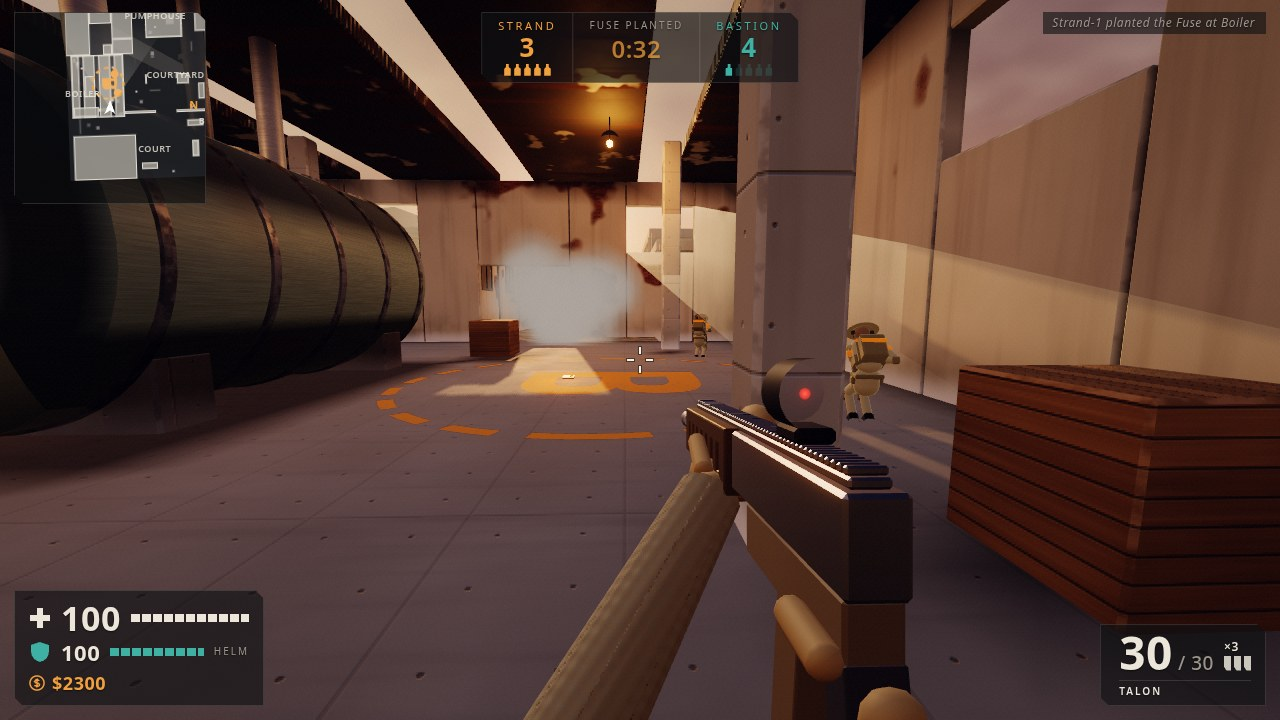
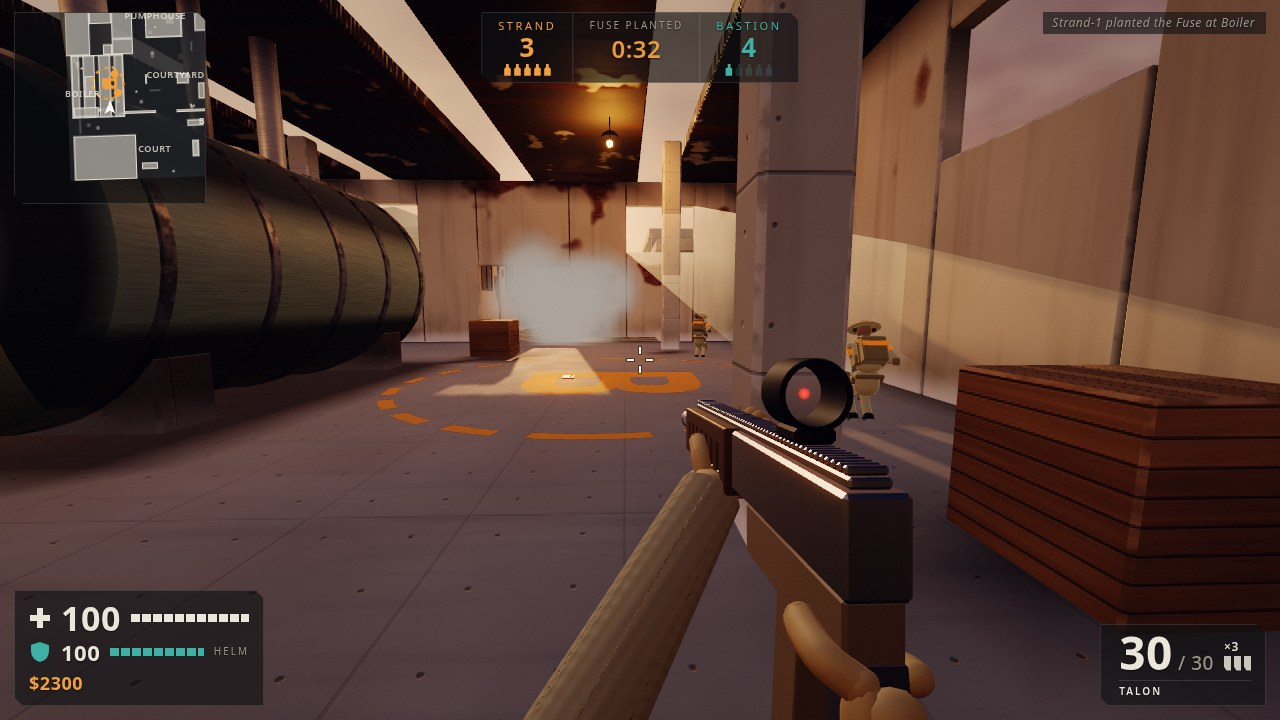
M7: hands to scale: each finger one 17 mm tube with round ends, 16 mm apart so they touch, own length per finger, index on the trigger, thumb with a palm pad; scope: crisp edge and duplex reticle in the scoped view, recessed coated glass in the Longbow scope, dot-sight housing with real walls (no mo

diff --git a/game/js/art/viewmodel.js b/game/js/art/viewmodel.js
@@ -9,40 +9,45 @@ import { TEAM_LOOK, WEAPONS } from '../config.js';
 const HOLD = { pistol: [.075, -.105, -.43], rifle: [.11, -.128, -.37] }, ADS = [0, -.074, -.22];
 export const GLOVE = lin(0xa48a62);
 const toAds = (hip, k, a) => hip[k] + (ADS[k] - hip[k]) * a;
-const _m = new Matrix4(), _n = new Matrix4(), _q = new Quaternion(), _s = new Vector3(), P = (x, y, z) => new Vector3(x, y, z);
+const _m = new Matrix4(), _q = new Quaternion(), _v = new Vector3(), _s = new Vector3(), _x = new Vector3(1, 0, 0), P = (x, y, z) => new Vector3(x, y, z);
 const seg = (B, a, b, r, col) => B.add(new CapsuleGeometry(r, a.distanceTo(b), 3, 10), along(a, b), 1, col);
+const pad = (B, x, y, z, sx, sy, sz, rx, col) => B.add(new SphereGeometry(1, 14, 10), _m.compose(_v.set(x, y, z), _q.setFromAxisAngle(_x, rx), _s.set(sx, sy, sz)), 1, col);
 const se = (d, a, b, p) => { const c = Math.cos(d / 57.3), s = Math.sin(d / 57.3); return [a * Math.sign(c) * Math.abs(c) ** p, b * Math.sign(s) * Math.abs(s) ** p]; };
 const at = (L, y) => L[0] + (L[2] - L[0]) * (y - L[1]) / (L[3] - L[1]);
-// The four fingers as one block: a flattened tube h tall round a grip section (superellipse a, b, power p) from d0° to d1°,
-// with rounded ends; m places it, local y along the grip.
-function fingers(B, a, b, p, d0, d1, h, m, col) {
-	const pts = Array.from({ length: 9 }, (_, k) => { const [x, z] = se(d0 + (d1 - d0) * k / 8, a + .005, b + .005, p); return new Vector3(x, 0, z); });
-	m.scale(_s.set(1, h / .034, 1)); // the inner half of the 17 mm tube sits inside the grip
-	B.add(new TubeGeometry(new CatmullRomCurve3(pts), 24, .017, 12), m, 1, col);
-	for (const q of [pts[0], pts[8]]) B.add(new SphereGeometry(.017, 12, 8), _n.makeTranslation(q).premultiply(m), 1, col);
+// Finger or thumb: a tube through pts with a round tip. Fingers are 17 mm thick and 16 mm apart, so they touch.
+const R_F = .0085, GAP = .016;
+function finger(B, pts, col, r = R_F) {
+	B.add(new TubeGeometry(new CatmullRomCurve3(pts), 16, r, 8), _m.identity(), 1, col);
+	for (const q of [pts[0], pts.at(-1)]) B.add(new SphereGeometry(r, 10, 8), _m.makeTranslation(q), 1, col);
 }
+// Six points from d0° to d1° on a superellipse section (a, b, p), placed by pt(u, v, j).
+const arc = (d0, d1, a, b, p, pt) => Array.from({ length: 6 }, (_, j) => pt(...se(d0 + (d1 - d0) * j / 5, a, b, p), j));
 
-// Hands from the weapon's grip data: right palm behind the grip, fingers round its front below the guard, thumb along the
-// frame; left hand round the handguard or over the right fingers on a pistol. Returns builders and wrist points.
+// Hands from the weapon's grip data: right palm and three fingers round the grip, index on the trigger, thumb along the
+// frame; left hand round the handguard or over the right hand. Each finger ends at its own angle, for its own length.
 export function buildHands(w, glove) {
 	const R = new Bld(), L = new Bld(), G = w.grip, zf = (y) => at(G.f, y), zb = (y) => at(G.b, y), zc = (y) => (zf(y) + zb(y)) / 2;
-	const hw = G.hw, ym = G.fy - .02, y0 = G.fy + .006, h = .074, dz = (zb(ym) - zf(ym)) / 2, xT = -G.side - .011, yT = G.top + .01;
-	const rake = -Math.atan2(zc(y0 - .1) - zc(y0), .1), grip = () => _m.makeRotationX(rake).setPosition(0, y0 - h / 2, zc(y0 - h / 2));
+	const hw = G.hw, ym = G.fy - .022, [ty, tz] = G.trig, xT = -G.side - R_F, yT = G.top + .009, rake = -Math.atan2(zb(G.top - .1) - zb(G.top), .1);
+	const wrap = (y, out, d0, d1) => arc(d0, d1, hw + out, (zb(y) - zf(y)) / 2 + out, .6, (x, z, j) => P(x, y - j * .0015, zc(y) + z));
 	seg(R, P(.002, G.top - .012, zb(G.top - .012) + .012), P(.003, G.fy - .05, zb(G.fy - .05) + .012), .016, glove);
-	fingers(R, hw, dz, .6, 42, -168, h, grip(), glove);
-	seg(R, P(xT + .002, yT, zb(G.top) - .002), P(xT + .001, yT + .003, zf(G.top) - .03), .0095, glove);
+	pad(R, hw * .6, ym, zb(ym) - .002, .016, .04, .022, rake, glove);
+	pad(R, -hw * .5, G.top - .016, zb(G.top - .016) + .004, .011, .024, .016, rake, glove);
+	for (let k = 0; k < 3; k++) finger(R, wrap(G.fy - k * GAP, R_F * .85, 35, [-172, -165, -142][k]), glove);
+	finger(R, [P(hw + R_F * .8, ty + .004, zb(G.top) - .008), P(hw + R_F * .8, ty + .001, tz + .024), P(hw * .5 + .004, ty - .003, tz + .008), P(.004, ty - .007, tz - .004)], glove);
+	finger(R, [P(-hw * .6, G.top + .001, zb(G.top) + .006), P(xT + .002, yT, zb(G.top) - .004), P(xT, yT + .002, zf(G.top) - .006), P(xT + .002, yT + .002, zf(G.top) - .025)], glove, .0092);
 	const rw = [hw * .4, ym - .01, zb(ym) + .036];
 	seg(R, P(.004, ym, zb(ym) + .014), P(...rw), .021, glove);
 	let lw;
 	if (w.left) {
 		const z = w.left[2], [cy, rx, ry, p] = w.hg, [px, py] = se(-135, rx + .013, ry + .013, p);
-		seg(L, P(px, cy + py, z + .042), P(px + .006, cy + py, z - .03), .017, glove);
-		fingers(L, rx, ry, p, -150, 45, h, _m.makeRotationX(-Math.PI / 2).setPosition(0, cy, z), glove);
-		seg(L, P(-rx - .012, cy - ry * .45, z + .045), P(-rx - .008, cy + ry * .12, z - .036), .0095, glove);
-		lw = [-rx - .008, cy - ry - .004, z + .062]; seg(L, P(px, cy + py, z + .04), P(...lw), .021, glove);
+		pad(L, px, cy + py, z + .006, .02, .016, .04, 0, glove);
+		for (let k = 0; k < 4; k++) finger(L, arc(-150, [52, 58, 48, 30][k], rx + R_F * .85, ry + R_F * .85, p, (x, y, j) => P(x, cy + y, z - .028 + k * GAP + j * .001)), glove);
+		finger(L, [P(px, cy + py + .004, z + .03), P(-rx - .01, cy - ry * .3, z + .012), P(-rx - .009, cy, z - .01), P(-rx - .008, cy + ry * .15, z - .03)], glove, .0092);
+		lw = [-rx - .008, cy - ry - .004, z + .062]; seg(L, P(px, cy + py, z + .03), P(...lw), .021, glove);
 	} else {
-		fingers(L, hw + .02, dz + .02, .6, 165, 284, h, grip(), glove);
-		seg(L, P(-hw - .02, G.top - .02, zb(G.top) + .004), P(xT - .002, G.top - .018, zf(G.top) - .028), .0095, glove);
+		pad(L, -hw - .022, ym, zc(ym) + .006, .011, .034, .026, rake, glove);
+		for (let k = 0; k < 4; k++) finger(L, wrap(G.fy + .006 - k * GAP, R_F * 2.7, 165, [282, 286, 280, 268][k]), glove);
+		finger(L, [P(-hw - .02, G.top - .024, zb(G.top) + .004), P(xT - .006, G.top - .02, zc(G.top)), P(xT - .004, G.top - .02, zf(G.top) - .008), P(xT - .002, G.top - .02, zf(G.top) - .026)], glove, .0092);
 		lw = [-hw - .024, G.fy - .05, zb(G.fy - .05) + .02]; seg(L, P(-hw - .02, ym - .02, zc(ym) + .01), P(...lw), .02, glove);
 	}
 	return { R, L, rw, lw };

diff --git a/game/js/art/weapons-art.js b/game/js/art/weapons-art.js
@@ -25,7 +25,7 @@ const slots = (u0, u1, v0, v1, n) => Array.from({ length: n }, (_, k) => { const
 
 function optic(B, kind, z, y) {
 	if (kind === 'scope') {
-		lat(B, FIN.P, 0, y + .045, z + .14, [0,0,.022,0,.022,.06,.015,.09,.015,.2,.02,.24,.02,.3,.018,.31,0,.31], 1,24);
+		lat(B, FIN.P, 0, y + .045, z + .14, [0,.008,.016,.008,.016,0,.022,0,.022,.06,.015,.09,.015,.2,.02,.24,.02,.3,.018,.31,.015,.31,.015,.302,0,.302], 1,32);
 		for (const zz of [z + .07, z - .08]) box(B, FIN.K, -.012, y, zz, .012, y + .03, zz - .02,1);
 		lat(B, FIN.K, .024, y + .045, z - .01, [0,0,.009,0,.009,.02,0,.02], 1,12);
 		return y + .045;
@@ -37,13 +37,13 @@ function optic(B, kind, z, y) {
 		return y + .033;
 	}
 	box(B, FIN.K, -.013, y, z, .013, y + .01, z - .05,1);
-	lat(B, FIN.K, 0, y + .03, z, [.023,0,.023,.05,.02,.052], 1,20);
+	lat(B, FIN.K, 0, y + .03, z, [.019,0,.023,0,.023,.05,.021,.053,.019,.053,.019,0], 1,28);
 	return y + .03;
 }
 
-// Hand placement: grip front/back edges [z, y, z, y], grip and frame half widths, web and first-finger heights.
-const PGRIP = { f: [-.016,-.03,-.005,-.12], b: [.012,-.01,.03,-.115], hw: .017, side: .014, top: -.014, fy: -.052 };
-const LGRIP = { f: [.008,-.03,.024,-.124], b: [.035,-.02,.058,-.118], hw: .016, side: .0155, top: -.026, fy: -.062 };
+// Hand placement: grip front/back edges [z, y, z, y], grip and frame half widths, web and first-finger heights, trigger [y, z].
+const PGRIP = { f: [-.016,-.03,-.005,-.12], b: [.012,-.01,.03,-.115], hw: .017, side: .014, top: -.014, fy: -.052, trig: [-.027,-.033] };
+const LGRIP = { f: [.008,-.03,.024,-.124], b: [.035,-.02,.058,-.118], hw: .016, side: .0155, top: -.026, fy: -.062, trig: [-.032,-.017] };
 function pistol(o) {
 	const B = new Bld(), K = new Bld(), A = new Bld(), L = o.len;
 	box(B, o.frame, -.014,-.012,.035,.014,.012, -L + .02,1);
@@ -73,7 +73,6 @@ function longGun(o) {
 	rail(B, .064, zf + .02, -h1 + .01);
 	rail(B, .064, z0 - .01, zf + .02);
 	lat(B, FIN.M, 0, by, bz + .01, [o.bore, 0, o.bore, o.barrel, 0, o.barrel], 2,16);
-	if (o.flute) for (let k = 0; k < 6; k++) box(B, FIN.R, -o.bore - .0005, by - .0015, bz - .04 - k * .04, o.bore + .0005, by + .0015, bz - .065 - k * .04);
 	lat(B, FIN.M, 0, by, bz - o.barrel + .01, [.013,0,.013,.012,.011,.014,.011,.02,.013,.022,.013,.05,.009,.055,0,.055], 2,16);
 	box(B, FIN.M, -.012, by - .014, bz, .012, by + .016, bz - .025);
 	const S = (pts, f = FIN.P, holes = []) => ext(B, f, .034, pts.map((v, i) => (i % 2 ? v : -s0 - v)), holes.map((h) => h.map((v, i) => (i % 2 ? v : -s0 - v))));
@@ -95,14 +94,16 @@ const SPECS = {
 	breaker: (fp) => longGun({ fp, recv: .2, hg: .36, barrel: .12, bore: .014, stock: 'tube', accent: 0x333538, hgColor: 0x5a3c26 }),
 	talon: (fp) => longGun({ fp, recv: .26, hg: .3, barrel: .14, bore: .0095, mag: 'curved', stock: 'tube', optic: 'dot', accent: 0x7a6c56, hgColor: 0x7a6c56 }),
 	gavel: (fp) => longGun({ fp, recv: .12, hg: .32, barrel: .1, bore: .0095, mag: 'box', bullpup: true, optic: 'holo', opticZ: -.12, accent: 0x4c5a66 }),
-	longbow: (fp) => longGun({ fp, recv: .3, hg: .28, barrel: .34, bore: .012, mag: 'box', stock: 'chassis', optic: 'scope', opticZ: -.02, bolt: true, flute: true, accent: 0x55604a }),
+	longbow: (fp) => longGun({ fp, recv: .3, hg: .28, barrel: .34, bore: .012, mag: 'box', stock: 'chassis', optic: 'scope', opticZ: -.02, bolt: true, accent: 0x55604a }),
 };
 
 const reticle = new MeshBasicMaterial({ transparent: true, blending: AdditiveBlending, depthWrite: false, color: new Color(4,1.4,1.2), map: canvasTex(64, (x) => {
 	const g = x.createRadialGradient(32,32,0,32,32,8);
 	g.addColorStop(0, '#ff5a3c'); g.addColorStop(.4, 'rgba(255,60,40,.9)'); g.addColorStop(1, 'rgba(255,40,20,0)'); x.fillStyle = g; x.fillRect(0,0,64,64);
 }) });
-const lens = new MeshStandardMaterial({ color: 0x8aa0d0, metalness: 1, roughness: .06, transparent: true, opacity: .28, envMapIntensity: 2, side: DoubleSide });
+// Glass: see-through on dot sights, coated and opaque in the scope.
+const lens = new MeshStandardMaterial({ color: 0x9ab4e0, metalness: 1, roughness: .05, transparent: true, opacity: .32, envMapIntensity: 2, side: DoubleSide });
+const coat = new MeshStandardMaterial({ color: 0x4a6a9a, metalness: 1, roughness: .08, envMapIntensity: 2.4 });
 
 // lod: one merged mesh for soldiers; otherwise animated slide and magazine, glass optics.
 export function buildWeapon(id, lod = false) {
@@ -111,8 +112,8 @@ export function buildWeapon(id, lod = false) {
 	mk(s.B);
 	const slide = mk(s.K), mag = mk(s.A), muzzle = new Object3D();
 	if (!lod && s.optic) {
-		const sc = s.optic === 'scope', z0 = s.oz + (sc ? .141 : -.001), z1 = z0 - (sc ? .312 : s.optic === 'holo' ? .088 : .048);
-		for (const z of sc ? [z0, z1] : [z1]) { const l = new Mesh(new CircleGeometry(sc ? .019 : .02,20), lens); l.position.set(0, s.sight, z); g.add(l); }
+		const sc = s.optic === 'scope', z0 = s.oz + (sc ? .1325 : -.001), z1 = sc ? s.oz - .1625 : z0 - (s.optic === 'holo' ? .088 : .051);
+		for (const z of sc ? [z0, z1] : [z1]) { const l = new Mesh(new CircleGeometry(sc ? .0155 : .019,24), sc ? coat : lens); l.position.set(0, s.sight, z); g.add(l); }
 		if (!sc) { const r = new Mesh(new PlaneGeometry(.03,.03), reticle); r.position.set(0, s.sight, (z0 + z1) / 2); r.renderOrder = 2; g.add(r); }
 	}
 	muzzle.position.fromArray(s.muz); g.add(muzzle);

diff --git a/game/js/hud.js b/game/js/hud.js
@@ -29,8 +29,7 @@ export function createHud(map) {
 	}
 	Object.assign(g, { font: 'bold 22px sans-serif', textAlign: 'center', textBaseline: 'middle', strokeStyle: AMBER, fillStyle: AMBER, lineWidth: 2 }); g.setLineDash([5, 4]);
 	for (const [z, l] of [[map.zones.sitePans, 'A'], [map.zones.siteBoiler, 'B']]) { g.beginPath(); g.arc(X(z.cx), Z(z.cz), z.r * PX, 0, 7); g.stroke(); g.fillText(l, X(z.cx), Z(z.cz)); }
-	const cone = rc.createRadialGradient(R, R, 0, R, R, R);
-	cone.addColorStop(0, INK + '.3)'); cone.addColorStop(1, INK + '0)'); rc.textAlign = 'center';
+	rc.textAlign = 'center';
 	const shape = (c, ...p) => { rc.fillStyle = c; rc.beginPath(); for (let i = 0; i < p.length; i += 2) rc.lineTo(p[i], p[i + 1]); rc.fill(); };
 	const ring = (x, z, r, fill) => { rc.beginPath(); rc.arc(x, z, r, 0, 7); if (fill) { rc.fillStyle = fill; rc.fill(); } else rc.stroke(); };
 	function drawRadar(state, v) {
@@ -48,9 +47,7 @@ export function createHud(map) {
 			else if (state.time - state.spottedT[a.id] < 2.5) shape('#ff5a4a', x, z - 6, x + 5, z, x, z + 6, x - 5, z);
 		}
 		rc.restore();
-		rc.fillStyle = cone; rc.beginPath(); rc.moveTo(R, R); rc.arc(R, R, R, -Math.PI / 2 - .6, -Math.PI / 2 + .6); rc.fill();
 		shape('#fff', R, R - 8, R + 5.5, R + 6, R, R + 2.5, R - 5.5, R + 6);
-		rc.font = 'bold 11px sans-serif'; rc.fillStyle = AMBER; rc.fillText('N', R + Math.sin(v.yaw) * (R - 11), R - Math.cos(v.yaw) * (R - 11) + 4);
 	}
 	const card = (p, [id, key, note]) => {
 		const own = owns(p, id), off = p.money < priceOf(id) || (id === 'cutters' && p.team !== 'bastion');
@@ -71,11 +68,7 @@ export function createHud(map) {
 			const w = activeWeapon(v), am = v.ammo[activeId(v)], nade = v.grenadeMode, f = state.fuse, t = Math.max(0, Math.ceil(state.roundT)), phase = state.phase;
 			text('hp', Math.ceil(v.hp)); width('hpbar', Math.ceil(v.hp)); cls('hpbar', 'low', v.hp <= 30);
 			text('ar', Math.round(v.armor)); width('arm', Math.round(v.armor)); text('helm', v.helm ? 'HELM' : '');
-			const d = v.money - (last.cash ?? v.money);
-			if (changed('cash', v.money)) {
-				E.cash.textContent = `$${v.money}`;
-				if (d) { E.dCash.textContent = `${d > 0 ? '+' : '−'}$${Math.abs(d)}`; E.dCash.className = ''; void E.dCash.offsetWidth; E.dCash.className = d > 0 ? 'up' : 'dn'; }
-			}
+			text('cash', `$${v.money}`);
 			const mags = nade ? -1 : Math.ceil(am.reserve / w.mag);
 			html('ammo', nade ? `${v.nades[v.nadeSel]}<small>LMB THROW · RMB LOB</small>` : `${am.mag}<small>/ ${w.mag}</small>`);
 			if (changed('mags', mags)) E.mags.innerHTML = mags < 0 ? '' : `<span>×${mags}</span><b>${'<i></i>'.repeat(Math.min(mags, 8))}</b>`;

diff --git a/game/style.css b/game/style.css
@@ -38,9 +38,6 @@ html,body{margin:0;height:100%;overflow:hidden;background:#000;color:var(--ink);
 #hpbar.low i{background:var(--red)}
 #arm i{background:var(--teal)}
 #money{color:var(--amber);font-size:18px;font-weight:700;margin-top:8px;display:flex;align-items:center;gap:7px}
-#dCash{font-size:13px;opacity:0}
-#dCash.up,#dCash.dn{animation:cash 1.4s ease-out}
-#dCash.dn{color:var(--red)}
 #wpn{right:14px;bottom:14px;padding:7px 14px 7px 18px;display:grid;grid-template-columns:auto auto;column-gap:10px;align-items:end}
 #ammo{font-size:46px;font-weight:700;line-height:.9;text-align:right}
 #ammo small{font-size:19px;color:var(--mute);font-weight:500;margin-left:5px}
@@ -71,10 +68,9 @@ html,body{margin:0;height:100%;overflow:hidden;background:#000;color:var(--ink);
 #prog .bar i{background:var(--amber)}
 #prompt{top:57%;font-size:12px;letter-spacing:.24em}
 #scope,#vig{inset:0}
-#scope{background:radial-gradient(circle,#ff3b2f 0 .32vh,transparent .45vh 26vh,rgba(0,0,0,.55) 30.6vh,#000 31.3vh)}
-#scope:before,#scope:after{content:"";position:absolute;background:rgba(0,0,0,.85)}
-#scope:before{left:50%;top:19vh;bottom:19vh;width:1px}
-#scope:after{top:50%;left:calc(50% - 31vh);right:calc(50% - 31vh);height:1px}
+#scope{background:linear-gradient(#000 0 0) 50%/1px 62vh no-repeat,linear-gradient(#000 0 0) 50%/62vh 1px no-repeat,radial-gradient(circle,#ff3b2f 0 .35vh,transparent .48vh 30.4vh,rgba(0,0,0,.7) 30.9vh,#000 31.2vh)}
+#scope:before,#scope:after{content:"";position:absolute;inset:19vh calc(50% - 2px);background:linear-gradient(#000 35%,transparent 0 65%,#000 0)}
+#scope:after{inset:calc(50% - 2px) calc(50% - 31vh);background:linear-gradient(90deg,#000 35%,transparent 0 65%,#000 0)}
 #vig{opacity:0;background:radial-gradient(ellipse,transparent 55%,rgba(200,20,10,.65))}
 #vig.low{animation:pulse .6s infinite alternate}
 #buy,#board{top:50%;transform:translate(-50%,-50%)}
@@ -110,5 +106,4 @@ html,body{margin:0;height:100%;overflow:hidden;background:#000;color:var(--ink);
 .keys b{color:var(--ink)}
 .set{display:grid;grid-template-columns:auto 220px;gap:10px 18px;align-items:center;font-size:12px;letter-spacing:.2em;accent-color:var(--amber)}
 @keyframes pulse{to{opacity:.55}}
-@keyframes cash{0%{opacity:1;transform:translateY(4px)}70%{opacity:1}to{opacity:0;transform:translateY(-6px)}}
 @keyframes hit{from{transform:scale(1.5)}}

diff --git a/game/index.html b/game/index.html
@@ -27,7 +27,7 @@ viewmodel (buildHands), characters (IK), fx, all generated in code · hud.js · 
 <div class="pn" id="vit">
 <div class="row"><svg width="22" height="22" viewBox="0 0 22 22"><path d="M8 1h6v7h7v6h-7v7H8v-7H1V8h7z" fill="#ece6da"/></svg><span class="big" id="hp">100</span><div class="bar" id="hpbar"><i></i></div></div>
 <div class="row"><svg width="22" height="22" viewBox="0 0 22 22"><path d="M11 1l9 3v6c0 6-4 10-9 11C6 20 2 16 2 10V4z" fill="#3fb0a4"/></svg><span class="big" id="ar">0</span><div class="bar" id="arm"><i></i></div><span class="lbl" id="helm"></span></div>
-<div id="money"><svg width="16" height="16" viewBox="0 0 16 16" fill="none" stroke="#f0a03c" stroke-width="1.5"><circle cx="8" cy="8" r="7"/><path d="M8 3.5v9M10.4 5.6C9.6 4.6 5.6 4.5 5.6 6.4S10.6 7.8 10.6 9.8 6.3 11.4 5.4 10.3"/></svg><span id="cash">$900</span><b id="dCash"></b></div>
+<div id="money"><span id="cash">$900</span></div>
 </div>
 <div class="pn" id="wpn"><div id="ammo"></div><div id="mags"></div>
 <div id="wf"><div class="lbl" id="wname"></div><div id="nades"><span id="nS"></span><span id="nV"></span><span id="kit"></span></div></div></div>
